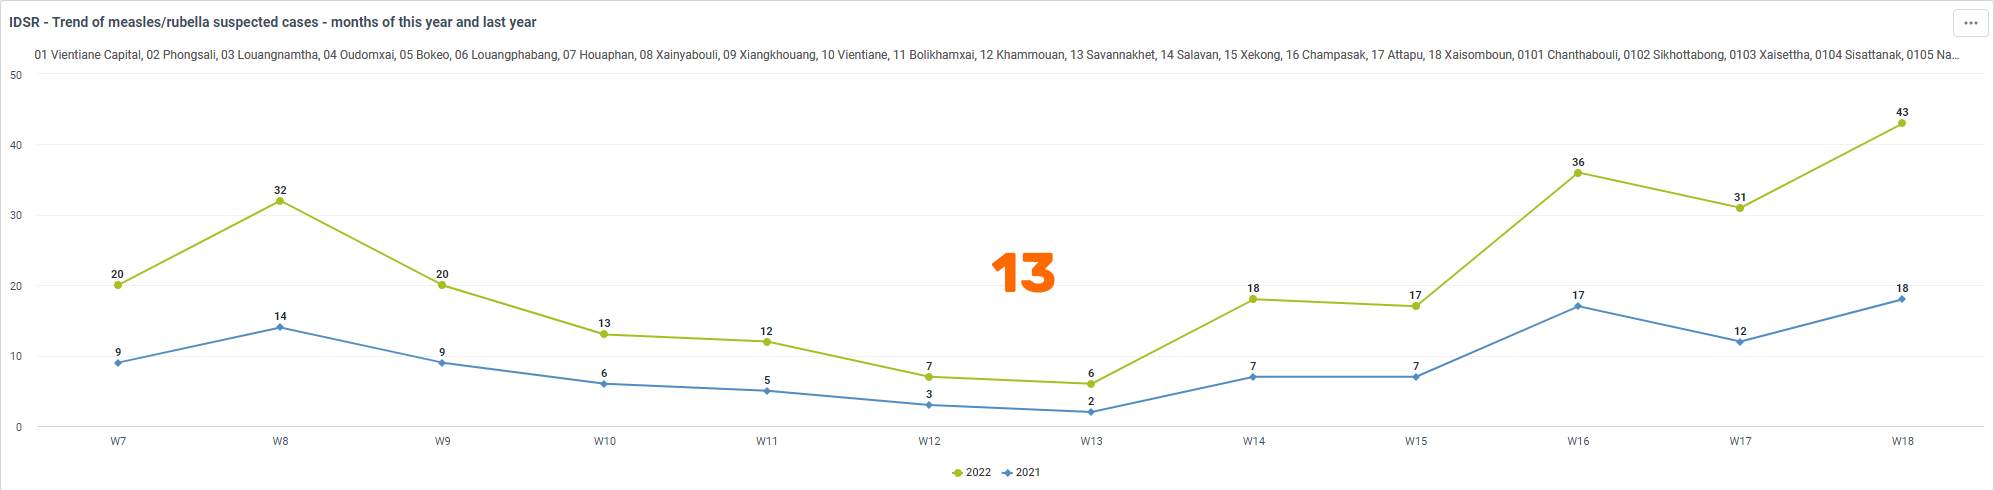
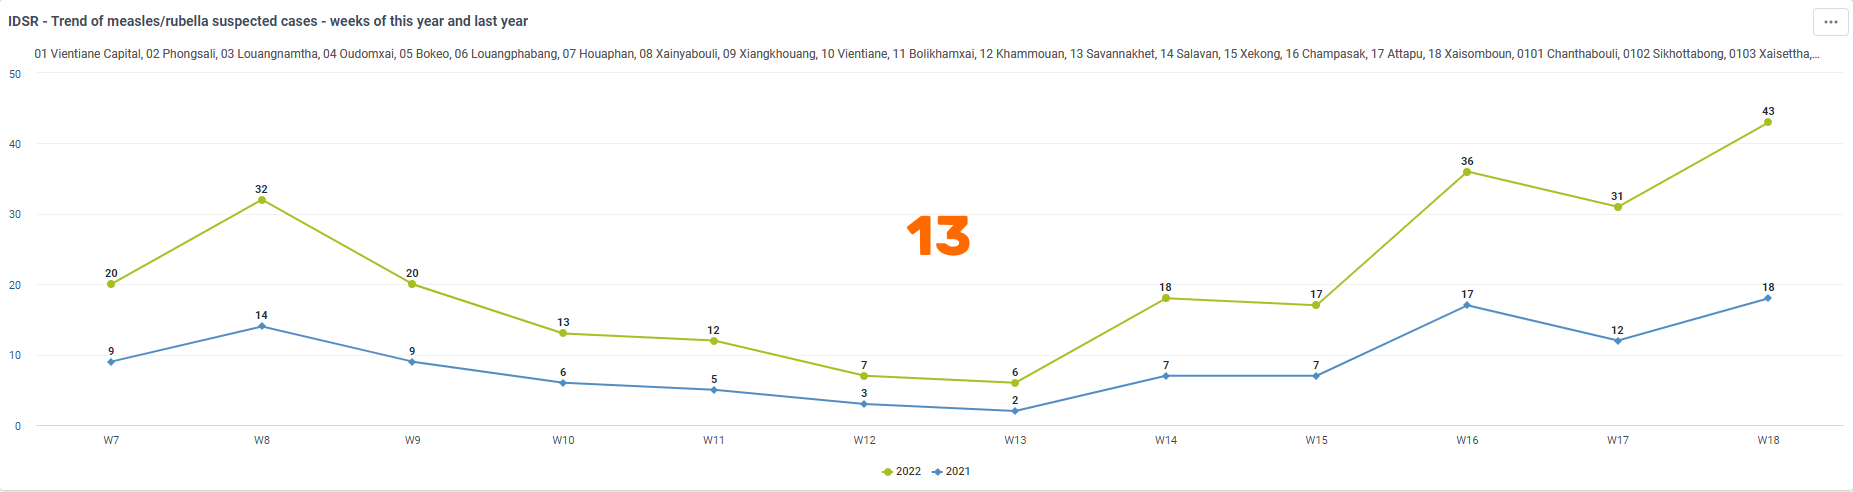
update dashboard 4 image

diff --git a/docs/vpd_surveillance_aggregate_design.md b/docs/vpd_surveillance_aggregate_design.md
@@ -43,7 +43,7 @@ The surveillance configuration package for aggregate reporting contains 4 datase
 
 ### IDSR - Report: Suspected, Confirmed, Death
 
-The _**IDSR - Report: Suspected, Confirmed, Death**_ dataset contains information on suspected cases, confirmed cases and deaths on the diseases outlined in [Table 1](#table-1). A number of the diseases have _**disaggregated**_ suspected cases and deaths and the form and uses a _**custom form design**_. The custom form design is a result of combining disaggregated and non-disaggregated data elements that belong to the same disease and are required to be grouped together.
+The _**IDSR - Report: Suspected, Confirmed, Death**_ dataset contains information on suspected cases, confirmed cases and deaths on the diseases outlined in the section [diseases covered](#diseases-covered). A number of the diseases have _**disaggregated**_ suspected cases and deaths and the form and uses a _**custom form design**_. The custom form design is a result of combining disaggregated and non-disaggregated data elements that belong to the same disease and are required to be grouped together.
 
 ![image-20200719115335917](resources/images/Screen01.png)
 
@@ -62,7 +62,7 @@ In summary, if it is the case where you are ***not yet collecting data*** on con
 
 ### IDSR - Report: Suspected, Death
 
-The _**IDSR - Report: Suspected, Death**_ dataset contains information on suspected cases and deaths on the diseases outlined in [Table 1](#table-1). Note that it does not contain information on confirmed cases. This was done in the event the lab confirmation was a separate process, or that seperate access is to be provided for those entering confirmed case data. This dataset therefore links to the IDSR - Aggregate Lab Weekly Report in the event that cases are confirmed using a separate process. This form uses the same data elements and structure contained in the IDSR - Aggregate Weekly Report dataset for cases and deaths. The custom form design from this dataset was therefore re-used such that a uniform design would be applied between this dataset and the IDSR - Aggregate Weekly Report dataset.
+The _**IDSR - Report: Suspected, Death**_ dataset contains information on suspected cases and deaths on the diseases outlined in the section [diseases covered](#diseases-covered). Note that it does not contain information on confirmed cases. This was done in the event the lab confirmation was a separate process, or that seperate access is to be provided for those entering confirmed case data. This dataset therefore links to the IDSR - Aggregate Lab Weekly Report in the event that cases are confirmed using a separate process. This form uses the same data elements and structure contained in the IDSR - Aggregate Weekly Report dataset for cases and deaths. The custom form design from this dataset was therefore re-used such that a uniform design would be applied between this dataset and the IDSR - Aggregate Weekly Report dataset.
 
 ![image-20200719115644641](resources/images/Screenx42.png)
 
@@ -123,7 +123,7 @@ Once the data has been reviewed and verified from the Excel sheet, it can be imp
 
 ## Dashboards
 
-Dashboards for each of the diseases listed in [Table 1](#table-1) are available. Each disease specific dashboard follows the same layout:
+Dashboards for each of the diseases listed [above](#diseases-covered) are available. Each disease specific dashboard follows the same layout:
 
 1. Pivot table showing suspected outbreak areas in the last 12 weeks
 2. Map showing suspected outbreak areas in the last week
@@ -146,7 +146,7 @@ Dashboards for each of the diseases listed in [Table 1](#table-1) are available.
 
 ![dashboard_3](resources/images/dashboard_3.png)
 
-13. A comparison of cases by week of this year and last year
+13. A comparison of cases by weeks of this year and last year
 
 ![dashboard_4](resources/images/dashboard_4.png)
 
